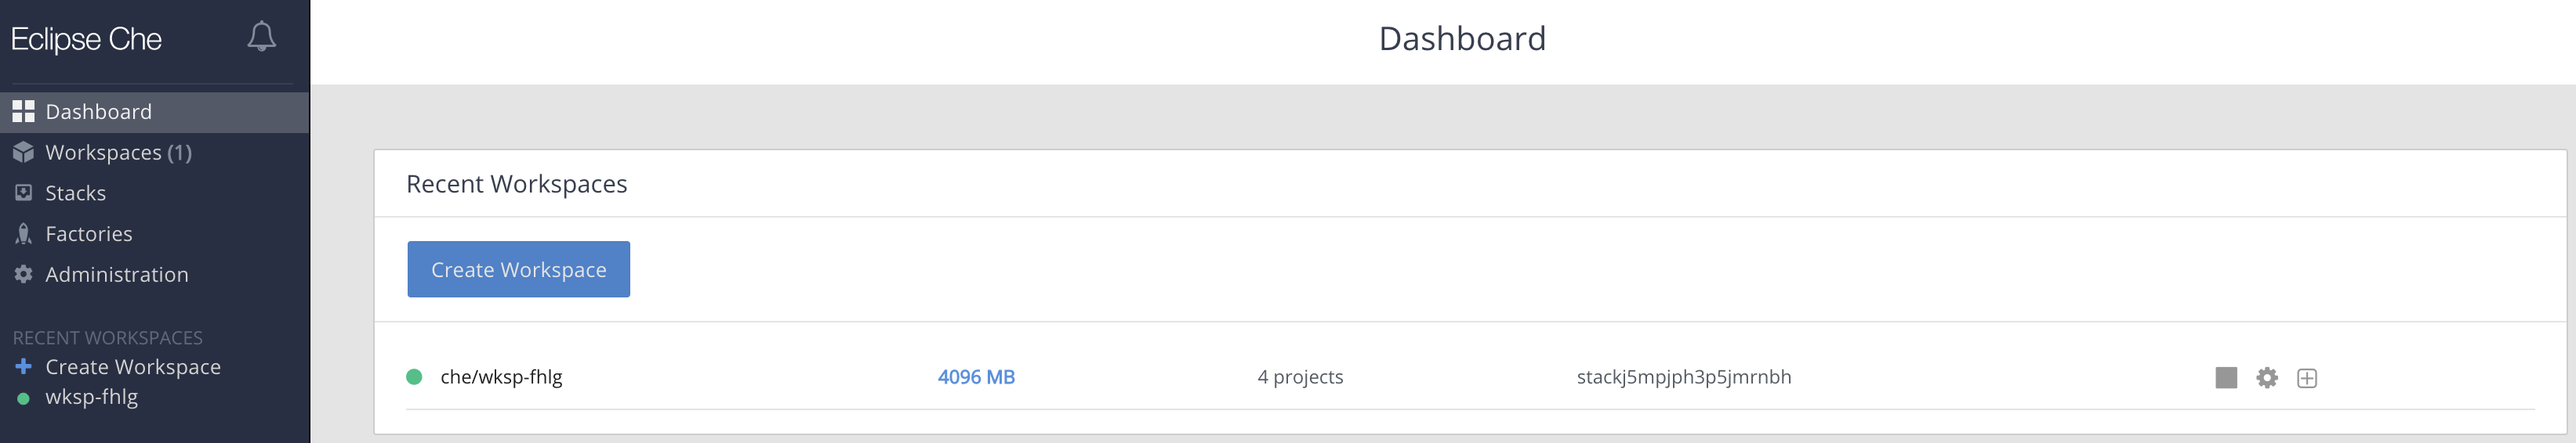
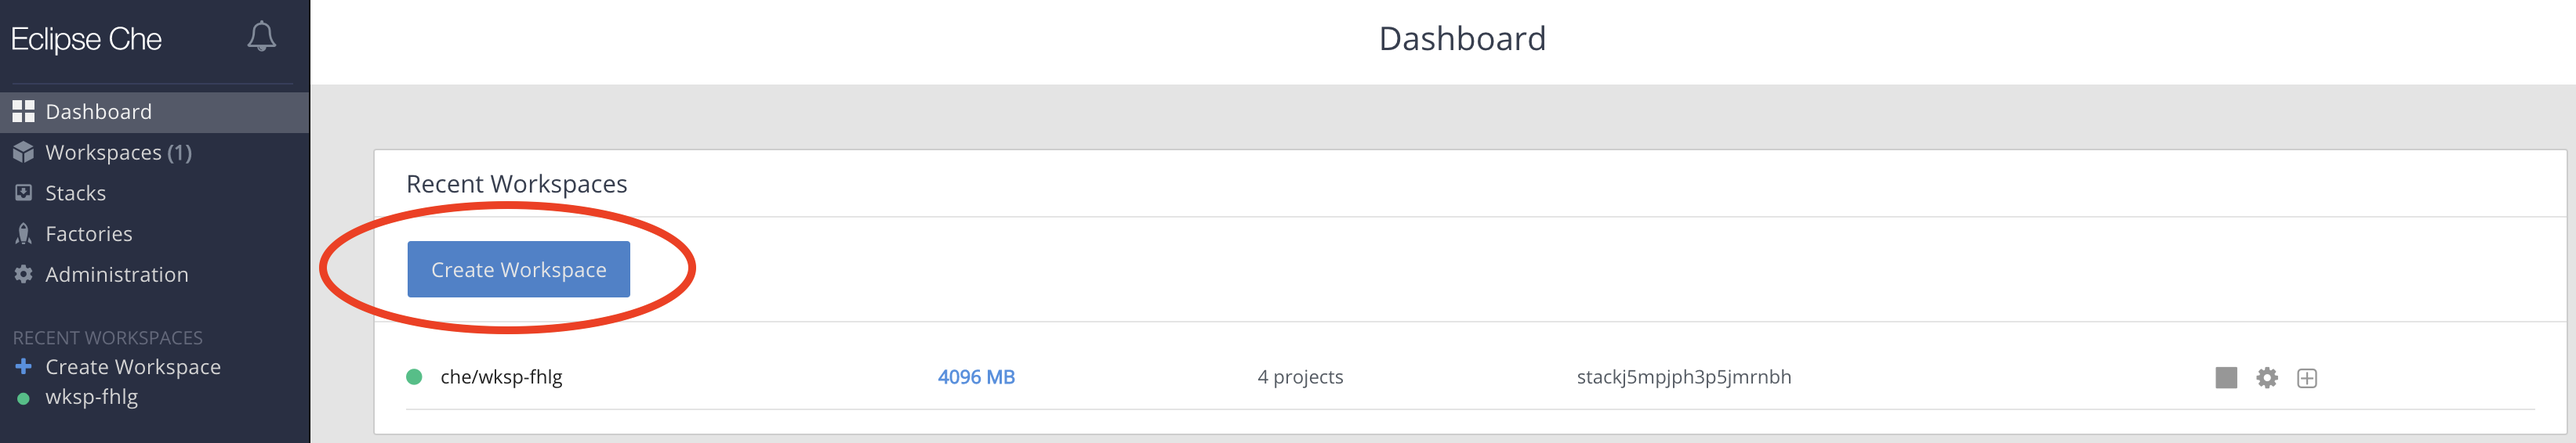
Updated images

Changed region(s): [[0.1242, 0.4505, 0.2483, 0.7208], [0.1552, 0.5106, 0.2794, 0.7509]]

diff --git a/docs/labs/developer-track/lab04/README.md b/docs/labs/developer-track/lab04/README.md
@@ -69,15 +69,13 @@ openshift
 
     ![00-create-workspace.png](images/00-create-workspace.png "Create Workspace")
 
-1. Select **Clients** from the left menu.
+1. Enter a unique name for your workspace e.g. simon-dev-workspace.  Select "day in the life workshop" stack, increase the RAM to 4MB and then click **Create**.
 
-    ![00-clients.png](images/00-clients.png "Clients")
+    ![00-new-workspace.png](images/00-new-workspace.png "New Workspace")
 
-    *A 3scale-admin client and service account was already created for you*.
+1. Click on **Open** to generate and open the workspace.
 
-1. Click on the **3scale-admin** link to view the details.
-
-    ![00-3scale-admin.png](images/00-3scale-admin.png "3scale admin account")
+    ![00-open-workspace.png](images/00-open-workspace.png "Open Workspace")
 
 1. Click the **Credentials** tab.
 
